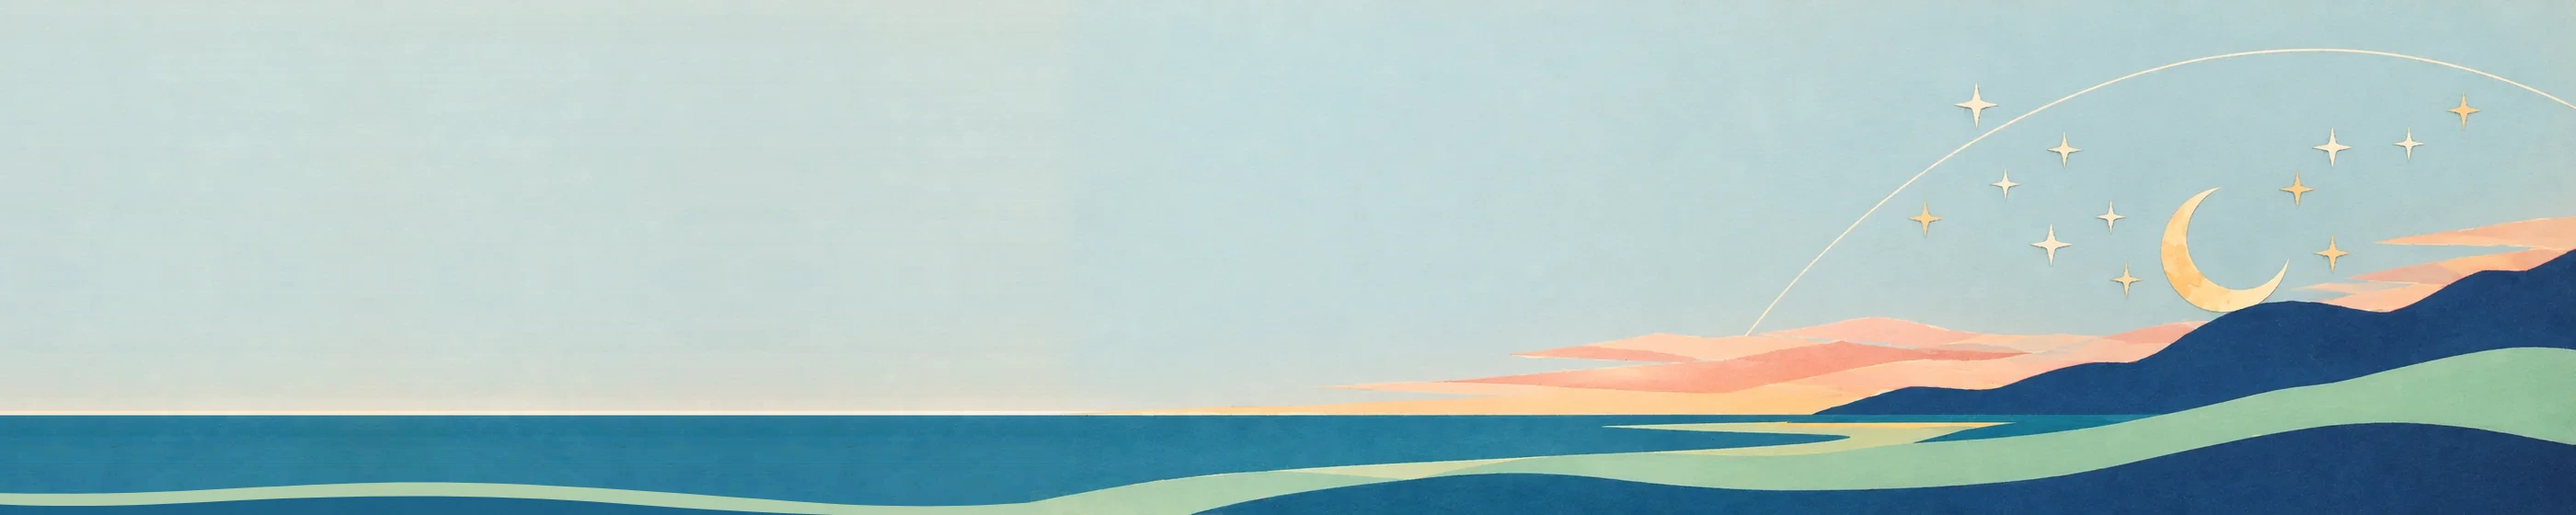
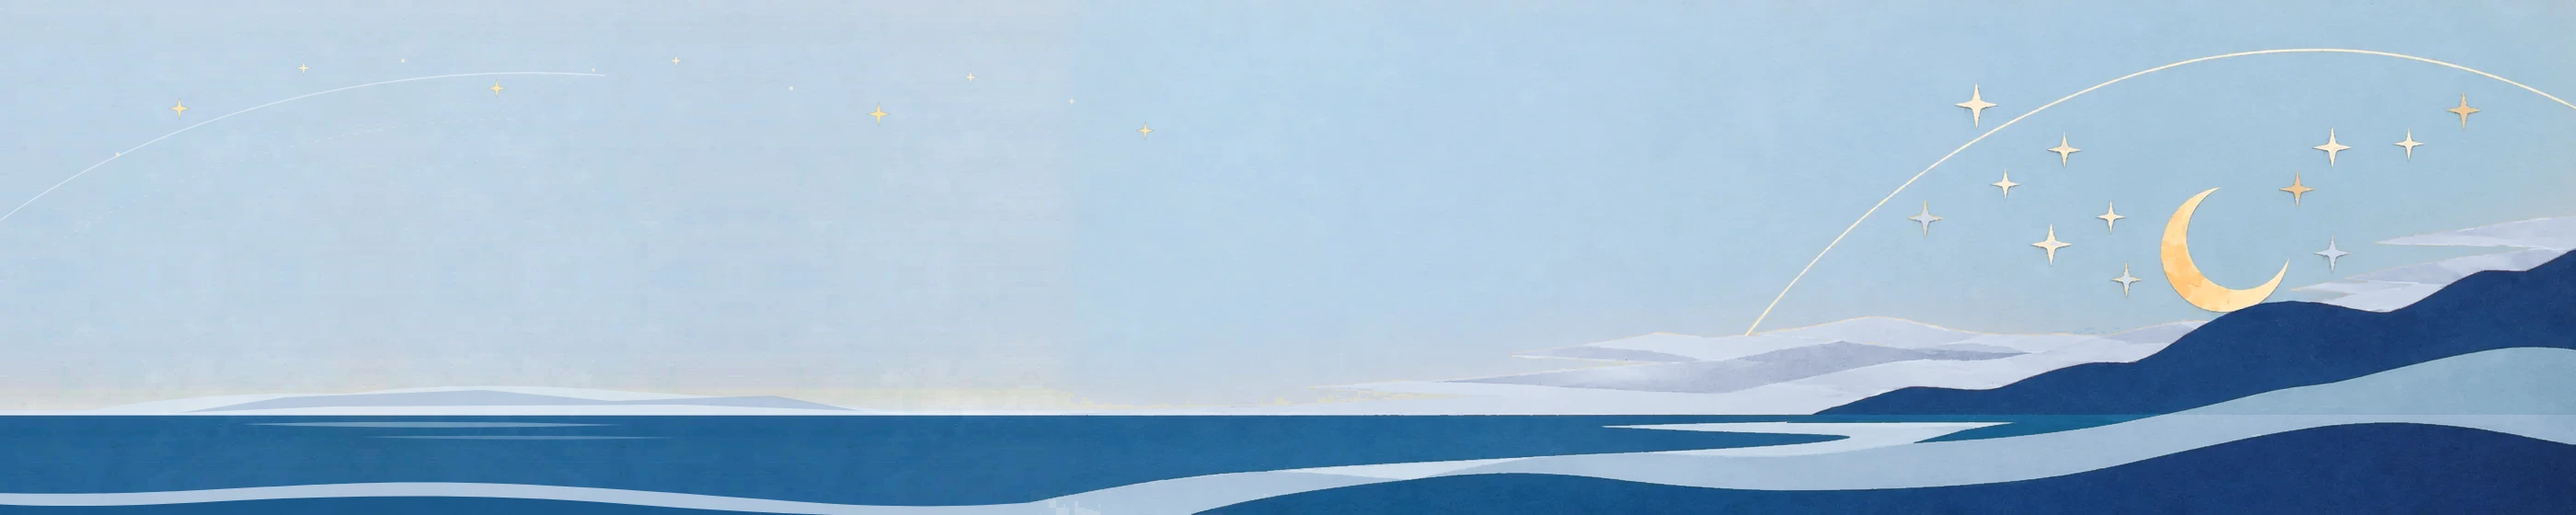
style(trend): 星潮横幅重调为清浅月夜 5:1 全景并充实左侧星图与柔云
- 将橘粉黄昏云与偏白昼青绿海面整体重调为银蓝夜云、夜靛蓝海潮与月银潮光，保留淡金弯月与星辰
- 左侧天际补入极淡星图细弧、散落微星、低矮夜云与海面月光倒影，画面左右平衡且不抢标题对比度
- 同步 TrendView.vue 与 TrendOwnerView.vue 占位/遮罩底色为 #cadbe8，通过构建、Lint、356 项单测与 Prettier 检查

diff --git a/polyhouse-web/src/views/TrendOwnerView.vue b/polyhouse-web/src/views/TrendOwnerView.vue
@@ -116,11 +116,11 @@ const {
 .masthead {
   overflow: hidden;
   border-radius: 16px;
-  background: #d7e7e4 url('../assets/startide-tide-atlas.webp') no-repeat right bottom / auto 100%;
+  background: #cadbe8 url('../assets/startide-tide-atlas.webp') no-repeat right bottom / auto 100%;
 }
 .mast-copy {
   padding: clamp(20px, 3.5vw, 38px);
-  background: linear-gradient(90deg, #d7e7e4 30%, rgba(215, 231, 228, 0.97) 41%, transparent 70%);
+  background: linear-gradient(90deg, #cadbe8 30%, rgba(202, 219, 232, 0.97) 41%, transparent 70%);
 }
 .wordmark {
   font:

diff --git a/polyhouse-web/src/views/TrendView.vue b/polyhouse-web/src/views/TrendView.vue
@@ -446,7 +446,7 @@ watch(
   min-height: var(--scene-height);
   overflow: hidden;
   border-radius: 14px;
-  background: #d7e7e4;
+  background: #cadbe8;
 }
 .cover img {
   position: absolute;

diff --git a/docs/dev-log/v1.0-dev.15.md b/docs/dev-log/v1.0-dev.15.md
@@ -2,7 +2,7 @@
 
 ## 当前摘要
 
-- [星潮横幅 5:1 全景延展](#星潮横幅-51-全景延展)已完成：分支 `style/startide-cover-banner`（基于 `dev` `d816d5d`）将 `startide-tide-atlas.webp` 向左无缝延展为 `2800×560`（5:1），移除 `TrendView.vue` 的 `.cover::before` 镜像拉伸拼接并改用单图右下 `cover`；构建、Lint、356 项单测与多视口浏览器实测通过，待确认合入 `dev`。
+- [星潮横幅 5:1 全景延展](#星潮横幅-51-全景延展)已完成：分支 `style/startide-cover-banner`（基于 `dev` `d816d5d`）将 `startide-tide-atlas.webp` 延展并重调为清浅月夜 5:1 全景原画（`2800×560`，银蓝夜云、夜靛蓝海潮、左侧星图细弧与微星柔云），移除 `TrendView.vue` 的 `.cover::before` 镜像拉伸拼接并同步占位底色 `#cadbe8`；构建、Lint、356 项单测与多视口浏览器实测通过，待确认合入 `dev`。
 - [前端精修 F2 工作台页头减重](#前端精修-f2-工作台页头减重)已完成：经 PR #13 合入 `dev`（`d816d5d`）；妙替与妙压页头温和减重（桌面 `100.8px`、窄屏 `91.8px`），胶囊分别呼应淡紫/蜜桃色。
 - [前端精修 F1 与 F3](#前端精修-f1-与-f3)已完成：经 PR #12 合入 `dev`（`a38364a`）；零后端落地首页建议词与导航高亮/减高、个人空间星潮入口，以及星潮 8 大类筛选与轻标签、详情页「上一篇 / 下一篇」（`replace`）与暖纸骨架屏（首页保留原有松弛留白与两列画廊）。
 - [首页收尾区方案](#首页收尾区方案)最终采用 A。专项分支已移除独立说明区，工具列表直接接页脚，旧书签和键盘路径已验。
@@ -26,6 +26,8 @@
 
 - **资源与样式**：将 `polyhouse-web/src/assets/startide-tide-atlas.webp` 由 `1680×560`（3:1）向左无缝延展为 `2800×560`（5:1，约 `66.3 KB`），右侧 1680×560 逐像素保留原画星月山海与潮带，左侧 1120×560 延续原画浅青天空、纸张肌理与平缓舒展的薄荷绿潮带/深海浪；`TrendView.vue` 移除 `.cover::before` 伪元素，改为单图 `object-fit: cover; object-position: right bottom`，同时自然兼容锚定右侧的 `TrendOwnerView.vue`。
 - **实际验证**：`npm run build`、`npm run lint:check`、`npm test`（356/356）与 `TrendView.vue` Prettier 检查通过；浏览器实测 `#/trend` 在 `1440×900`、`1000×800`、`620×800`、`375×812`、`320×640` 下均无横向溢出，左侧海天自然延展、无镜像接缝，窄屏仍完整保留右侧星月山海。`TrendOwnerView.vue`（需屋主登录）仅核对样式锚定规则，未登录实看。
+
+- **清浅月夜二次精修（2026-11-23）**：用户预览后反馈左侧略单调且原图橘粉晚霞与月夜违和；在保留淡金弯月与星辰的前提下，整体重调为清浅月夜雾蓝、银蓝夜云与夜靛蓝月光海潮，并在左侧补入极淡星图细弧、微星、低矮夜云与海面月光倒影（`2800×560`，约 `73.6 KB`）；同步将 `TrendView.vue` 与 `TrendOwnerView.vue` 的占位/遮罩底色由 `#d7e7e4` 调为 `#cadbe8`。重跑 `npm run build`、`npm run lint:check`、`npm test`（356/356）与 Prettier 检查通过（尺寸与布局同上轮已验基线，未另起浏览器复看）。
 
 ## 前端精修 F2 工作台页头减重
 

diff --git a/DEV_LOG.md b/DEV_LOG.md
@@ -2,7 +2,7 @@
 
 更新时间：2026-11-23（Asia/Shanghai）。**v1.0 开发中。**
 
-- [星潮横幅 5:1 全景延展](docs/dev-log/v1.0-dev.15.md#星潮横幅-51-全景延展)已完成：分支 `style/startide-cover-banner` 将 `startide-tide-atlas.webp` 延展为 `2800×560` 并移除 CSS 镜像拉伸拼接，构建、356 项单测与多视口浏览器实测通过，待确认合入 `dev`；前端精修 [F1/F3](docs/dev-log/v1.0-dev.15.md#前端精修-f1-与-f3)（PR #12）与 [F2](docs/dev-log/v1.0-dev.15.md#前端精修-f2-工作台页头减重)（PR #13）已合入 `dev`（`d816d5d`），F4/F5 待后续推进。
+- [星潮横幅 5:1 全景延展](docs/dev-log/v1.0-dev.15.md#星潮横幅-51-全景延展)已完成：分支 `style/startide-cover-banner` 将 `startide-tide-atlas.webp` 重调并延展为清浅月夜 `2800×560` 全景（移除 CSS 镜像拉伸并同步底色 `#cadbe8`），构建与 356 项单测通过，待确认合入 `dev`；前端精修 [F1/F3](docs/dev-log/v1.0-dev.15.md#前端精修-f1-与-f3)（PR #12）与 [F2](docs/dev-log/v1.0-dev.15.md#前端精修-f2-工作台页头减重)（PR #13）已合入 `dev`（`d816d5d`），F4/F5 待后续推进。
 - [首页收尾区](docs/plans/home-closing-section.md)最终采用方案 A，工具列表直接接页脚，专项分支已验。[验收记录](docs/dev-log/v1.0-dev.15.md#首页收尾区方案)
 - 首页：[妙替纸蝶与妙压折页书](docs/dev-log/v1.0-dev.15.md#首页妙替与妙压卡面重绘)已完成，入口分别为“替换文本”和“压缩图片”，经 PR #9 合入 `dev`。[卡面集成记录](docs/dev-log/v1.0-dev.15.md#首页卡面与星潮集成)。
 - 星潮：基础工程、文章结构、7 日风向统计分别经 PR #6、#7、#8 合入 `dev`；[详情页改版与 `radar-4` 升级](docs/dev-log/v1.0-dev.15.md#星潮详情页改版与-radar-4-升级)（1A 紧凑报头、3A 暖纸细线、正面 Few-Shot、`descriptionZh` 双语简介、默认关闭的 `low` 轻度思考及键名收敛）已完成离线/隔离验收与本机实跑（16/16 `radar-4`），正经 PR 集成至 `dev`。真实后端浏览器联调、平台账单对账及[2B 可选风口简报](docs/plans/startide-insight-quality.md#第二步跨日聚合看大风口单篇稳定后的下一闭环)留待后续推进；11 月 20 日下午断源的首个故障仍缺现场证据。
